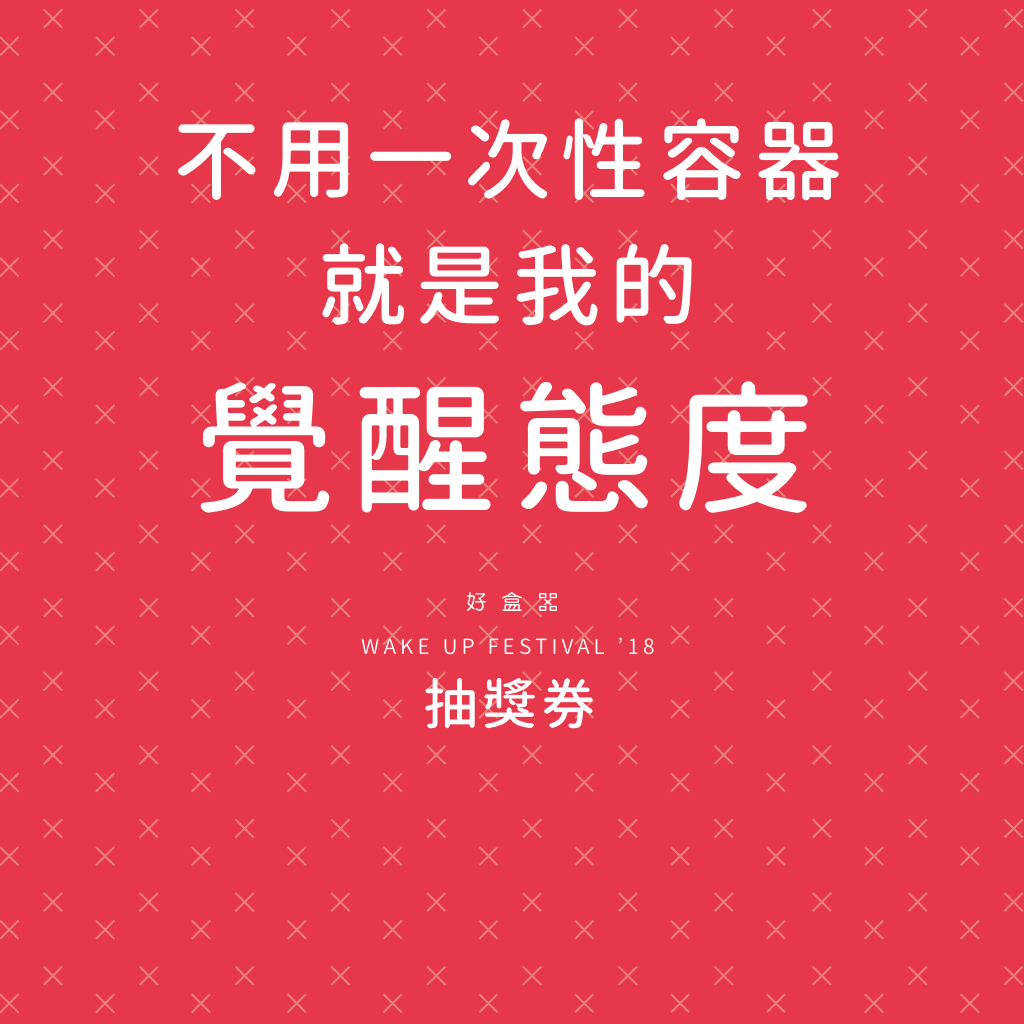
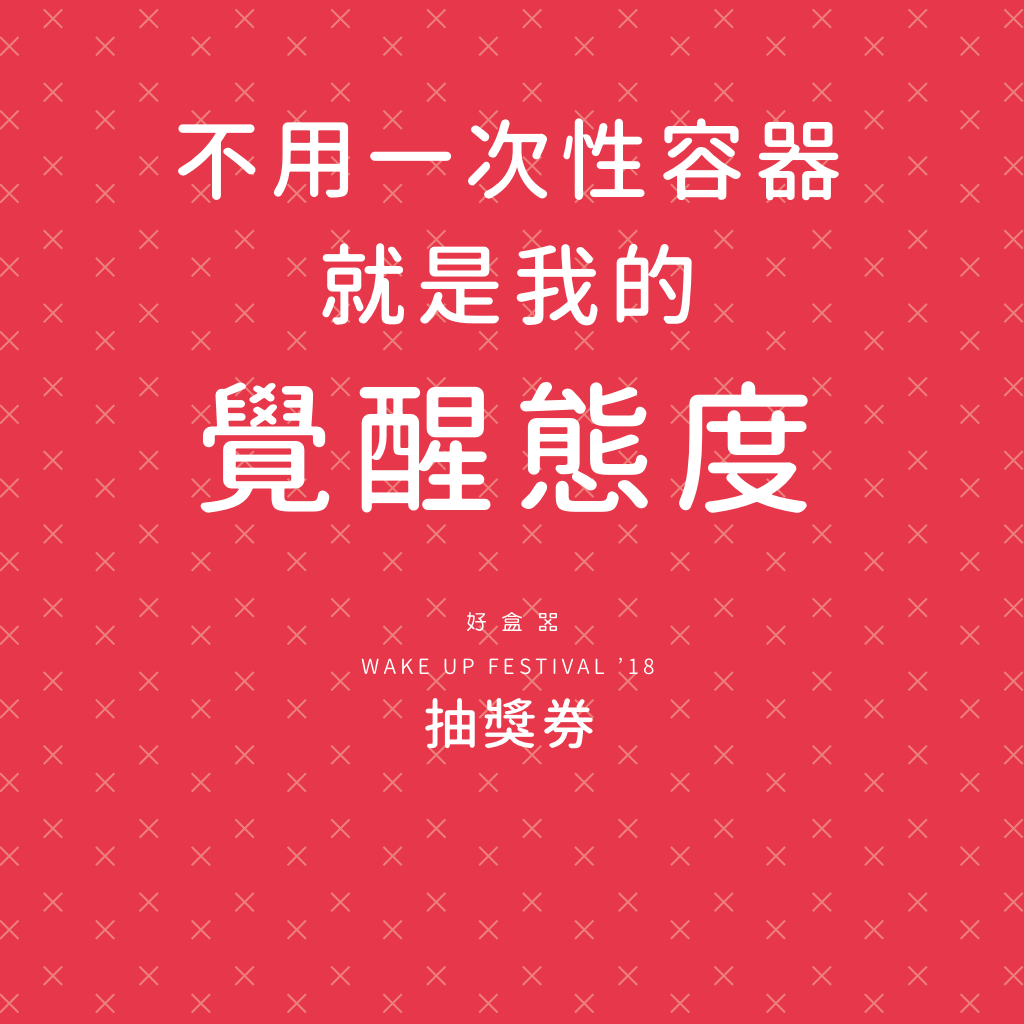
fix css

Changed region(s): [[0.3438, 0.5625, 0.6562, 0.75]]

diff --git a/views/assets/css/main.css b/views/assets/css/main.css
@@ -18,7 +18,7 @@ body {
 }
 
 .child {
-    margin: 2vw;
+    margin: 2vh 2vw;
 }
 
 input {
@@ -27,7 +27,7 @@ input {
     vertical-align: middle;
     font-size: larger;
     margin: 1px;
-    height: 15vw;
+    height: 15vh;
     width: 100%;
     text-align: center;
     padding: 2px;
@@ -42,10 +42,10 @@ input {
     vertical-align: middle;
     font-size: -webkit-xxx-large;
     margin: 1px;
-    height: 15vw;
+    height: 15vh;
     width: 100%;
     text-align: center;
     padding: 2px;
-    padding-top: 8vw;
+    padding-top: 8vh;
     font-weight: bold;
 }
